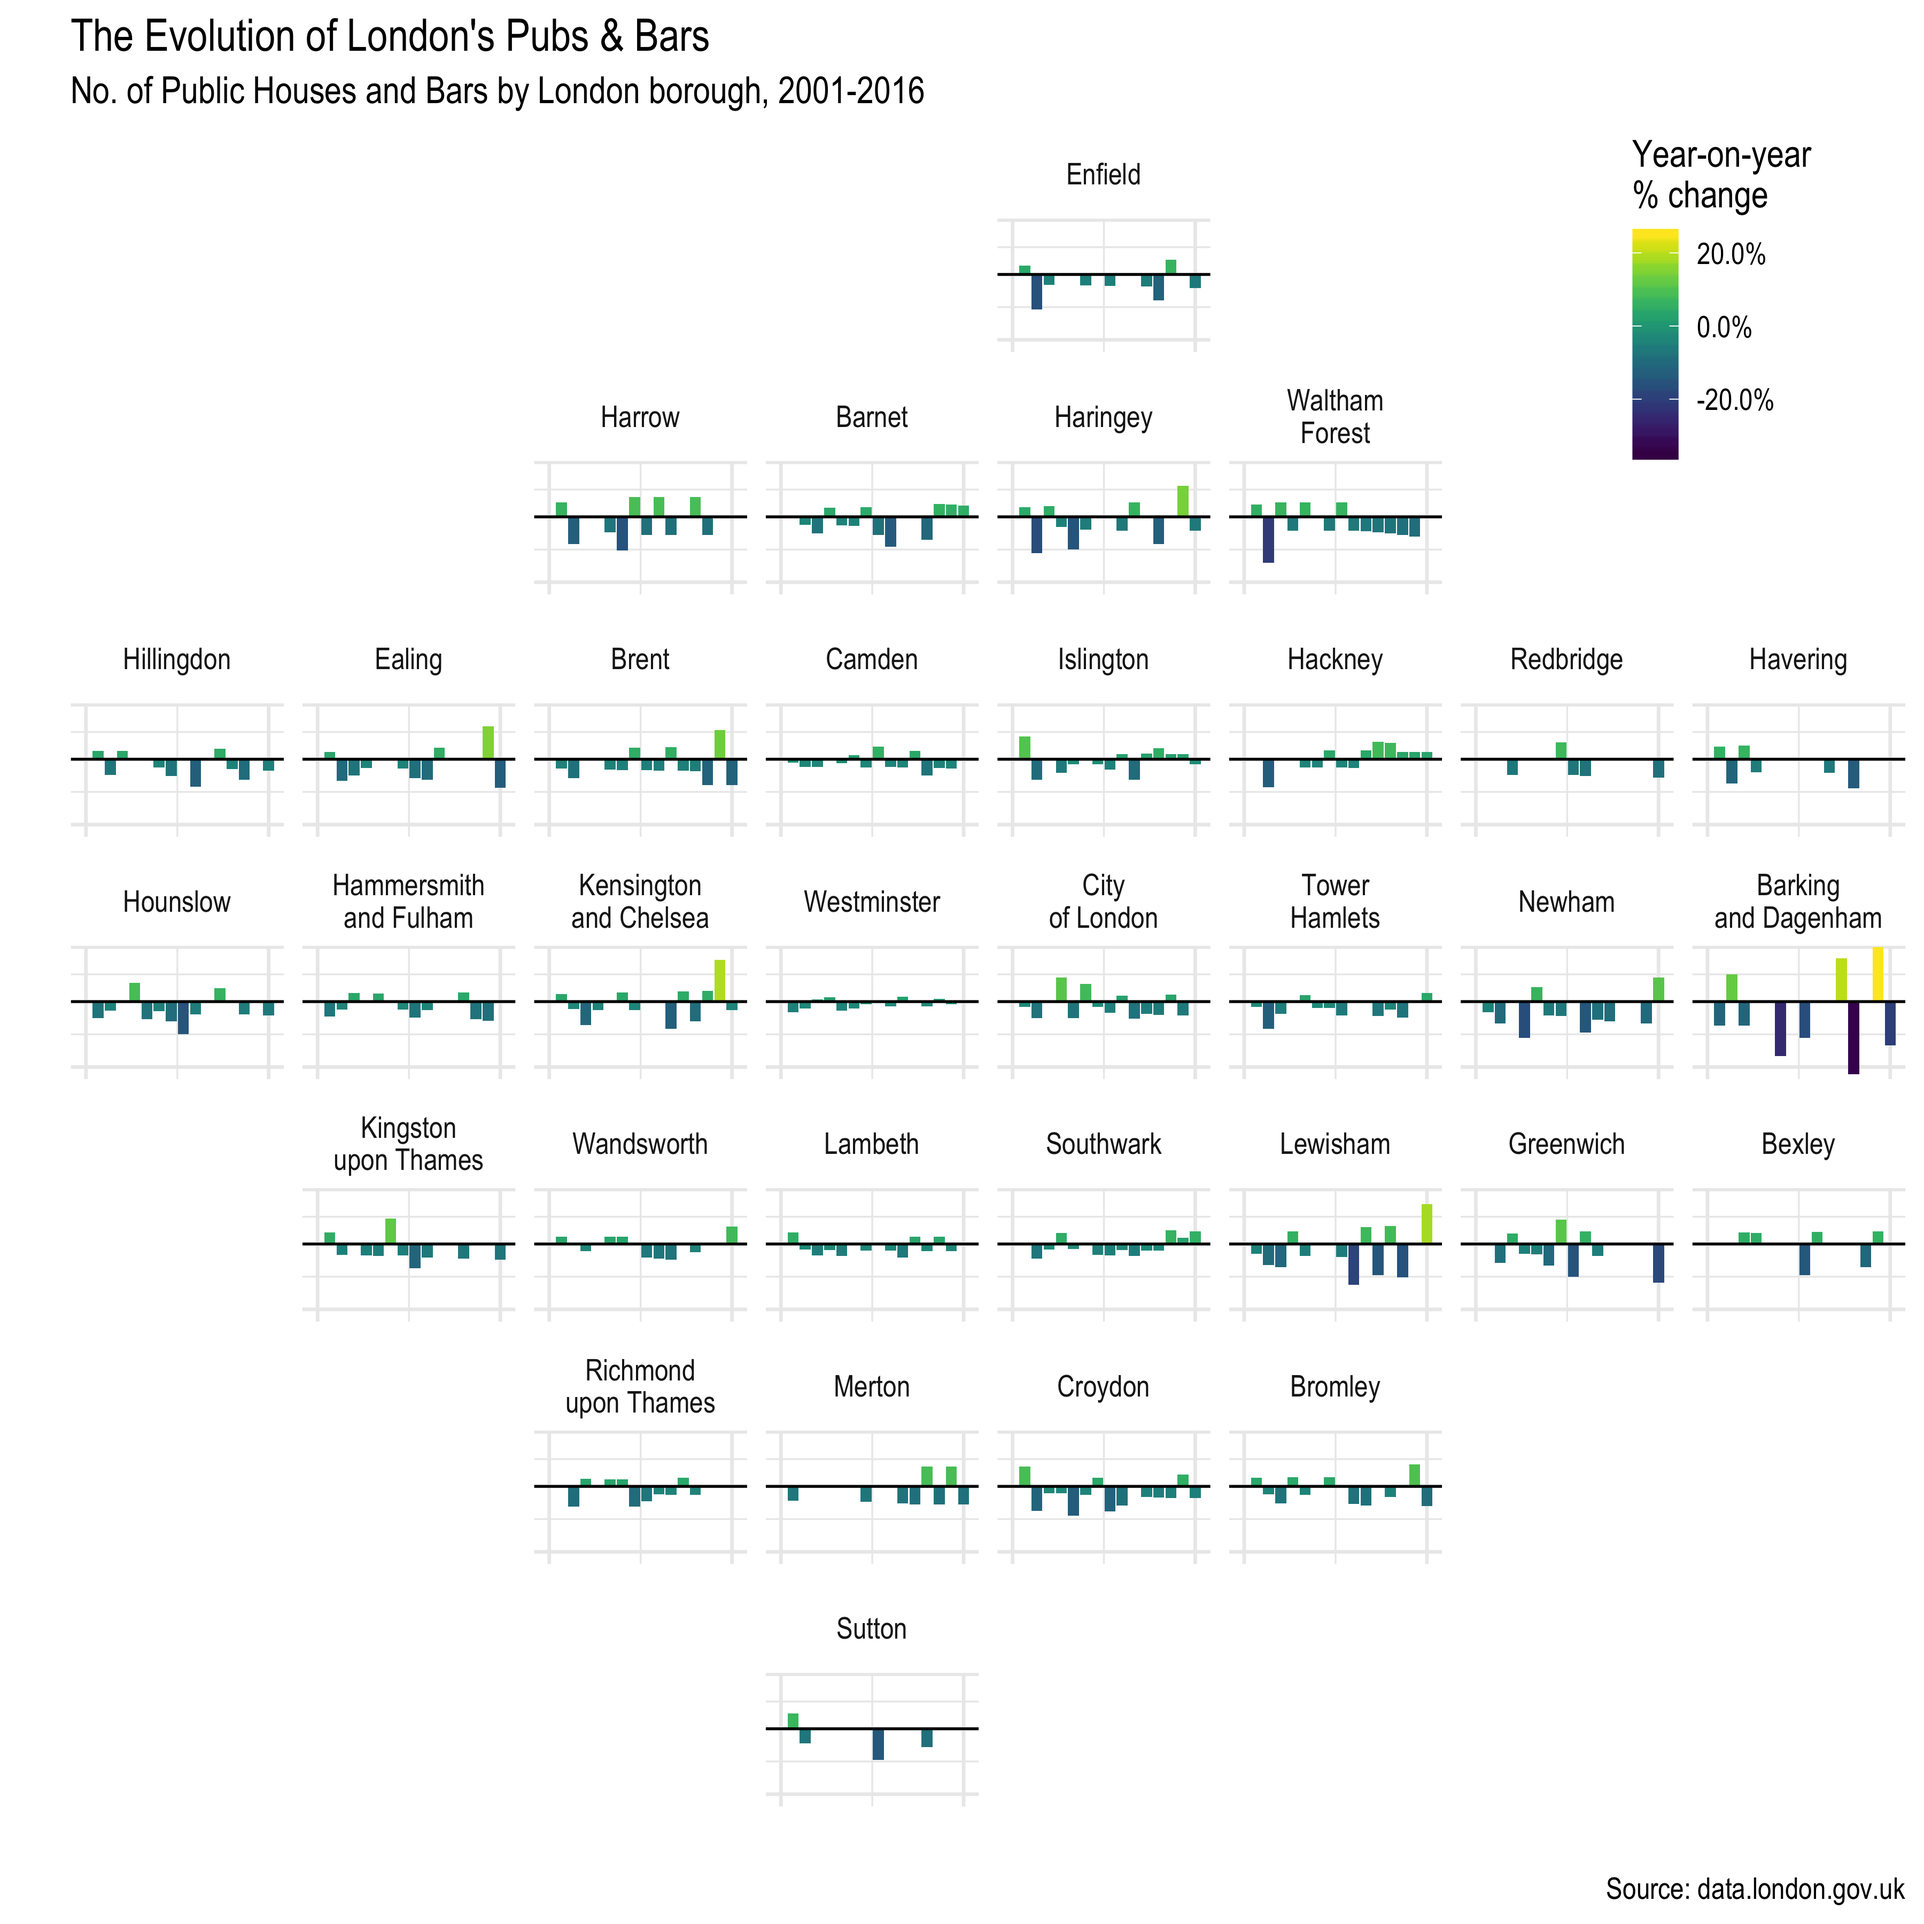
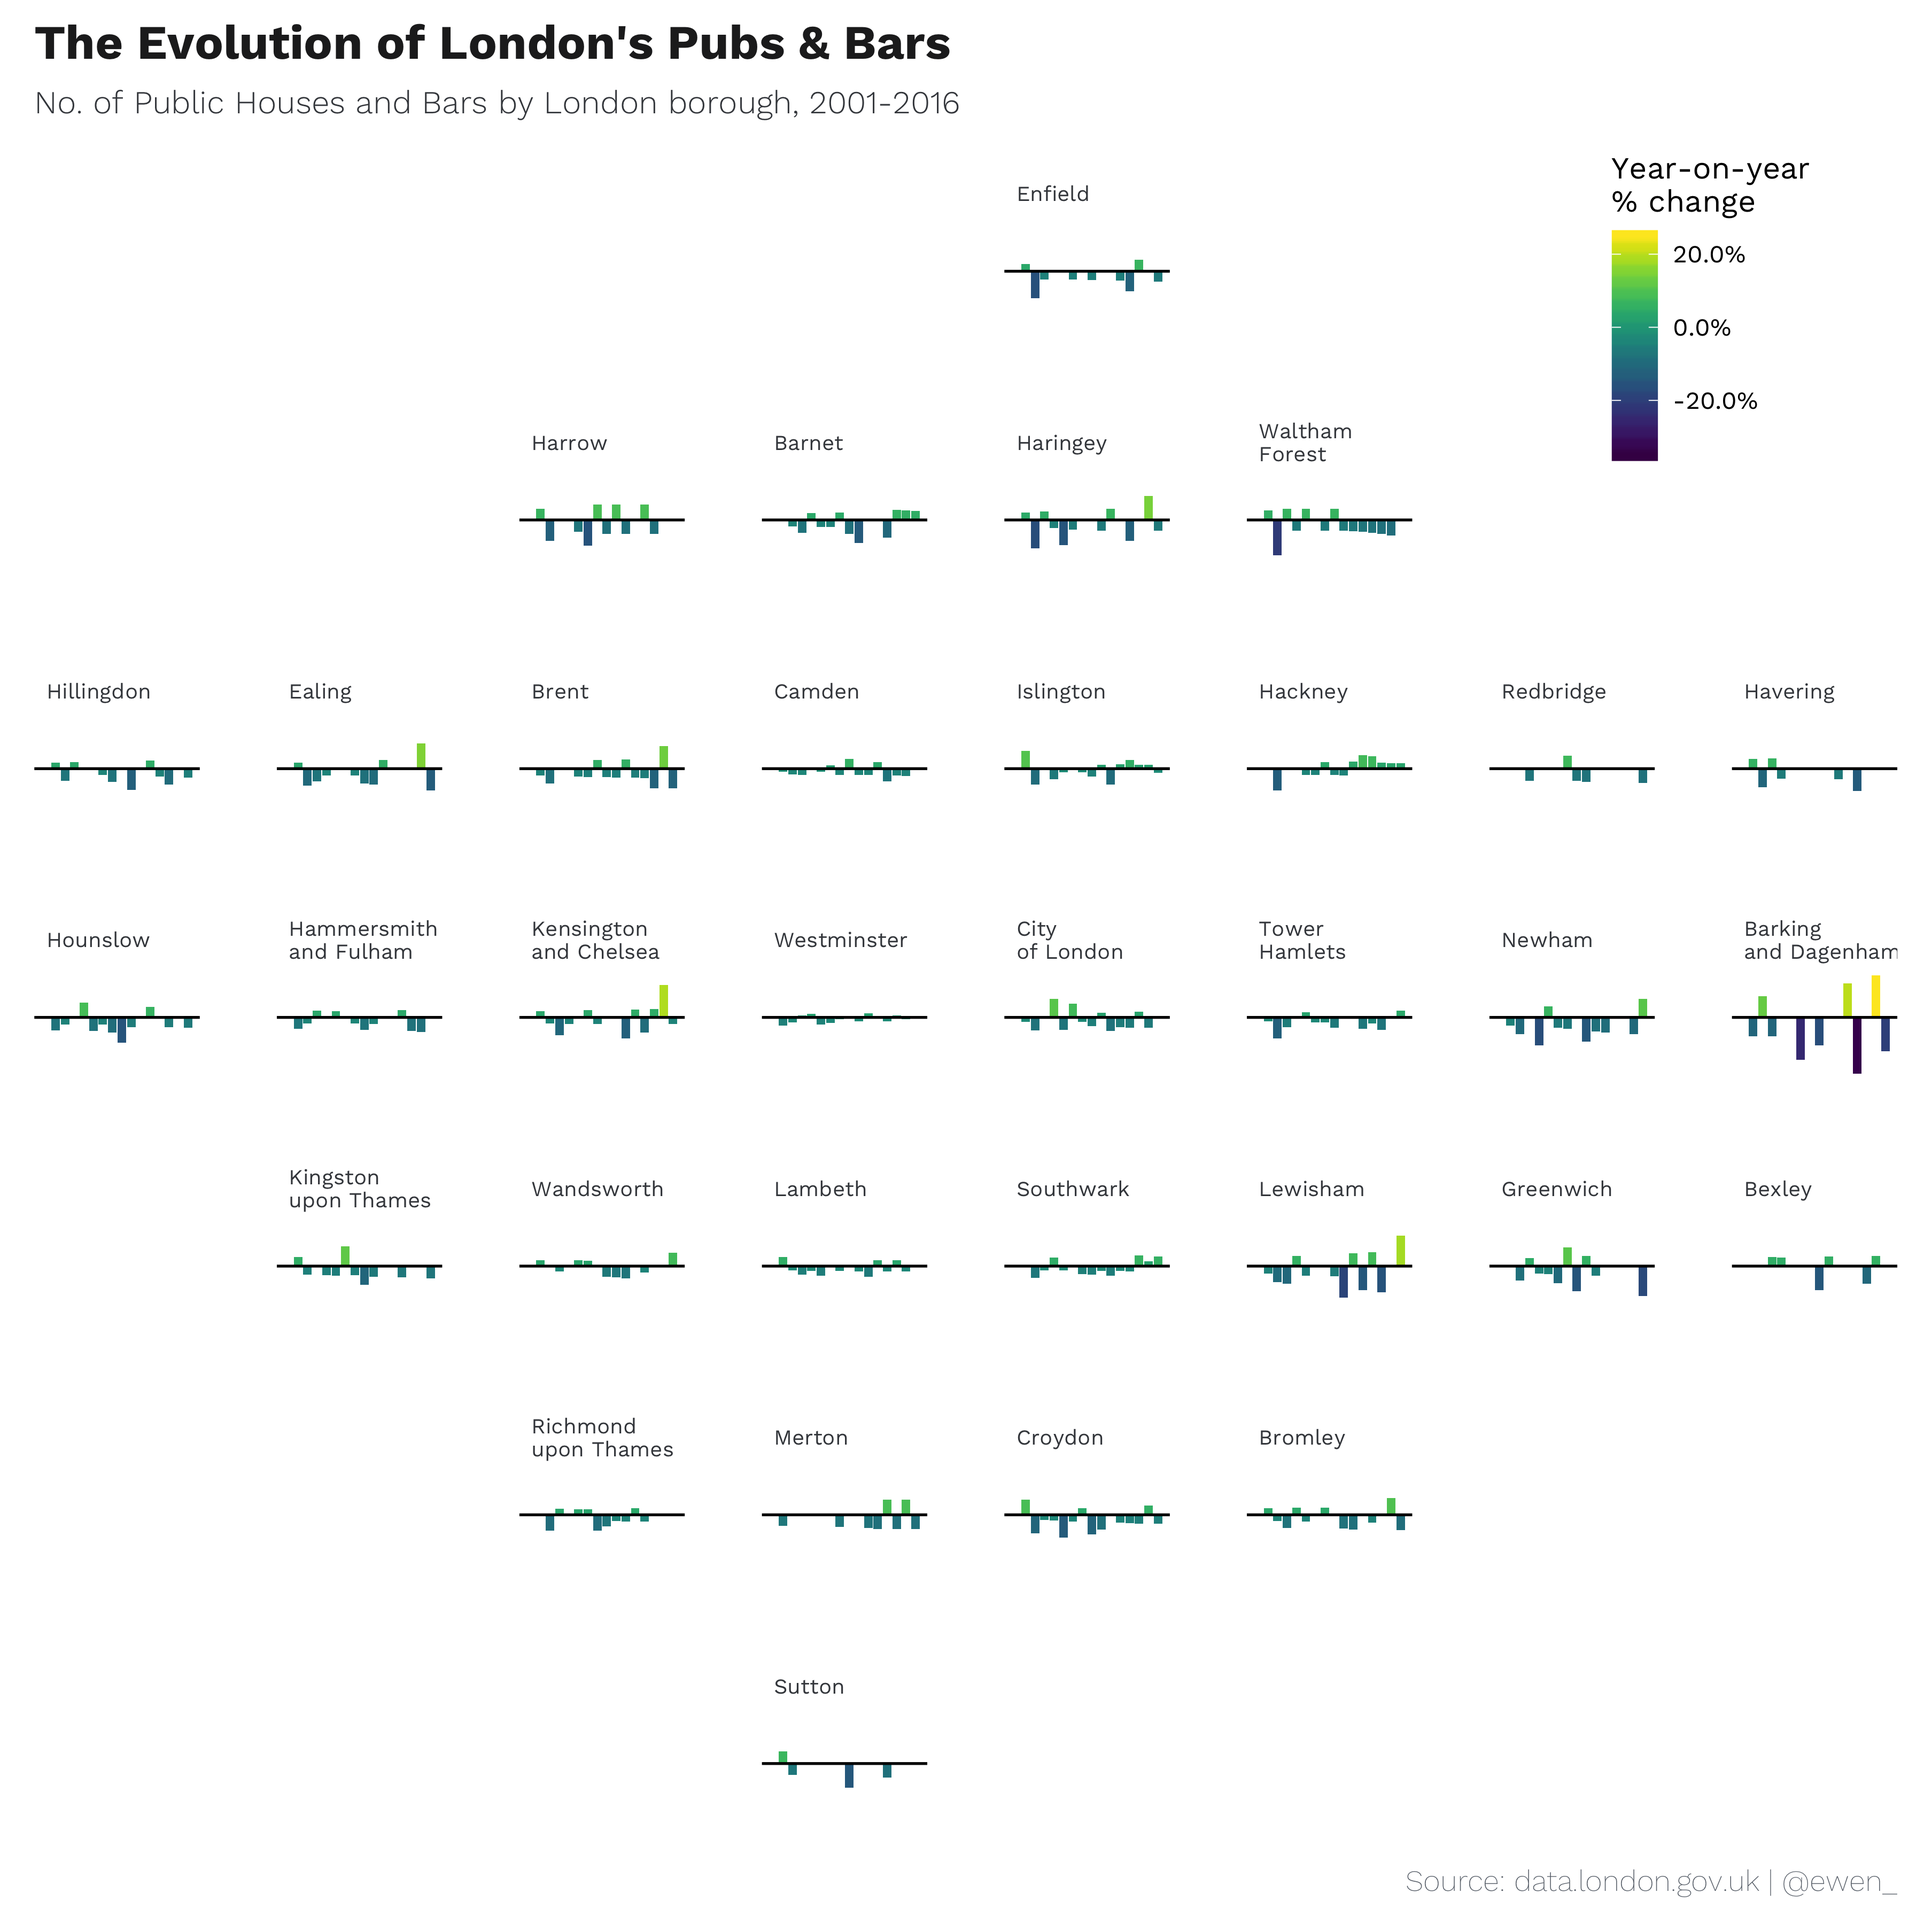
geofacet post update

diff --git a/content/blog/2017-05-30-mapping-london-pubs.html b/content/blog/2017-05-30-mapping-london-pubs.html
@@ -11,12 +11,12 @@ draft: no
 
 <div id="introducing-geofacet" class="section level2">
 <h2>Introducing geofacet</h2>
-<p>The <a href="https://github.com/hafen/geofacet"><code>geofacet</code></a> package dropped recently (I want to say last week?), a <code>ggplot2</code> extension allowing for the user to facet plots in a way that can retain an underlying geographical dimension. It perhaps goes a little bit further towards abstraction than <a href="https://pitchinteractiveinc.github.io/tilegrams/">tilegrams</a>, but the visualizations we produce can be a bit more complex as well. This post documents my first foray into this packages functionality.<a href="#fn1" class="footnote-ref" id="fnref1"><sup>1</sup></a></p>
+<p>The <a href="https://github.com/hafen/geofacet"><code>geofacet</code></a> package dropped recently, a <code>ggplot2</code> extension for faceting plots in a way that retains some underlying geographical dimension. It’s perhaps a little bit more abstract than <a href="https://pitchinteractiveinc.github.io/tilegrams/">tilegrams</a>, but the visualizations we produce can be a bit more complex as well. This post basically documents my first foray into <code>geofacet</code> functionality, while learning some more about the geographic evolution of London’s nightlife in the process.<a href="#fn1" class="footnote-ref" id="fnref1"><sup>1</sup></a></p>
 </div>
 <div id="getting-to-grips-with-grids" class="section level2">
 <h2>Getting to grips with grids</h2>
-<p>If we think about faceting in <code>ggplot2</code> (<code>facet_wrap</code>, <code>facet_grid</code>), we are already familiar with the idea of placing a sequence of plots into a number of panels, arranged according to a variable(s) of interest.</p>
-<p><code>geofacet</code> is based on the assumption that we want to arrange our sequence of plots into a grid that preserves some known geographical orientation. These known geographical orientations are stored as <strong>grids</strong>, which provide us with row and column values corresponding to a panel’s position in a faceted plot. Take this US states example, providing grid positions for US states:</p>
+<p>Via <a href="https://ggplot2.tidyverse.org/reference/facet_wrap.html">faceting in <code>ggplot2</code></a>, we are already familiar with the idea of placing a sequence of plots into a number of panels, possibly arranged according to a variable(s) of interest.</p>
+<p><code>geofacet</code> lets you arrange a sequence of plots to preserve some known geographical orientation. These known geographical orientations are stored as <strong>grids</strong>, which provide us with row and column values corresponding to a panel’s position in a faceted plot. Take this US states example, providing grid positions for US states:</p>
 <pre class="r"><code>head(geofacet::us_state_grid1)</code></pre>
 <pre><code>##   row col code       name
 ## 1   6   7   AL    Alabama
@@ -25,7 +25,7 @@ draft: no
 ## 4   5   5   AR   Arkansas
 ## 5   4   1   CA California
 ## 6   4   3   CO   Colorado</code></pre>
-<p>This grid also contains geographical data (state codes/names). We can simply join our data, that sits nicely within this geographical framework, to this grid and start ‘geofaceting’.</p>
+<p>This grid also contains geographical data (state codes/names). We can simply join data (that sits nicely within this geographical framework) to this grid and start ‘geofaceting’.</p>
 <p>There is a function in the package, <code>submit_grid</code>, which allows users to submit their own grids (as a dataframe, like in the above example) as a github issue and hopefully get them incorporated into the package proper. Having kicked off with just the US states, there’s now grids for EU countries, South African provinces, Australian states and London boroughs. Nice - my business is with the latter…</p>
 </div>
 <div id="geofaceting-london" class="section level2">
@@ -33,14 +33,14 @@ draft: no
 <p>A couple of months ago, <a href="https://data.london.gov.uk/dataset/the-number-of-public-houses-and-bars-in-london-2001-2016">a dataset was published</a> containing the number of public houses (pubs) and bars by local authority (borough) in London from 2001 through 2016. We’ll use this to demonstrate how this package can help us visualize trends in data without losing the geography along the way.</p>
 <p>Below is a map of London’s boroughs, in case you aren’t familiar.</p>
 <p><img src="/img/2017-05-30-geofacet_ldn_pubs/boroughs.png" width="75%" style="display: block; margin: auto;" /></p>
-<p>With that cleared up, let’s load up this data and get it into shape.</p>
+<p>With that cleared up, let’s load the data and get it into shape.</p>
 <pre class="r"><code>library(geofacet)
 library(tidyverse)
 library(gdata)
 library(stringr)
 library(viridis)
 library(scales)
-library(hrbrthemes)
+library(ewenthemes)
 
 #read/clean pubs data
 pubs &lt;- read.xls(&quot;http://files.datapress.com/london/dataset/the-number-of-public-houses-and-bars-in-london-2001-2016/2017-04-13T14:37:50.73/numberofpublichousesandbarsinlondon2001to2016.xls&quot;,
@@ -95,11 +95,11 @@ ggplot(data = pubs, aes(x=year, y=yoy_chg, fill=yoy_chg)) +
   scale_y_percent(limits=c(-0.35,0.25), breaks=c(-0.3, 0, 0.25), labels = NULL) +
   labs(title = &quot;The Evolution of London&#39;s Pubs &amp; Bars&quot;,
        subtitle = &quot;No. of Public Houses and Bars by London borough, 2001-2016&quot;,
-       caption = &quot;Source: data.london.gov.uk&quot;, x = &quot;&quot;, y = &quot;&quot;) +
-  theme_minimal(base_family = &quot;Arial Narrow&quot;, base_size = 14) +
+       caption = &quot;Source: data.london.gov.uk | @ewen_&quot;, x = NULL, y = NULL) +
+  theme_ewen_ws(grid = FALSE, axis = FALSE) +
   scale_fill_viridis(option=&quot;D&quot;,limits=c(-0.35,0.25), name=&quot;Year-on-year\n% change&quot;,
                      labels=percent) +
-  theme(legend.position=c(.9, .95))</code></pre>
+  theme(legend.position=c(.9, .95), strip.text = element_text(size = 8))</code></pre>
 <p><img src="/blog/2017-05-30-mapping-london-pubs_files/figure-html/geofacet-1.png" width="100%" /></p>
 </div>
 <div id="close" class="section level2">
